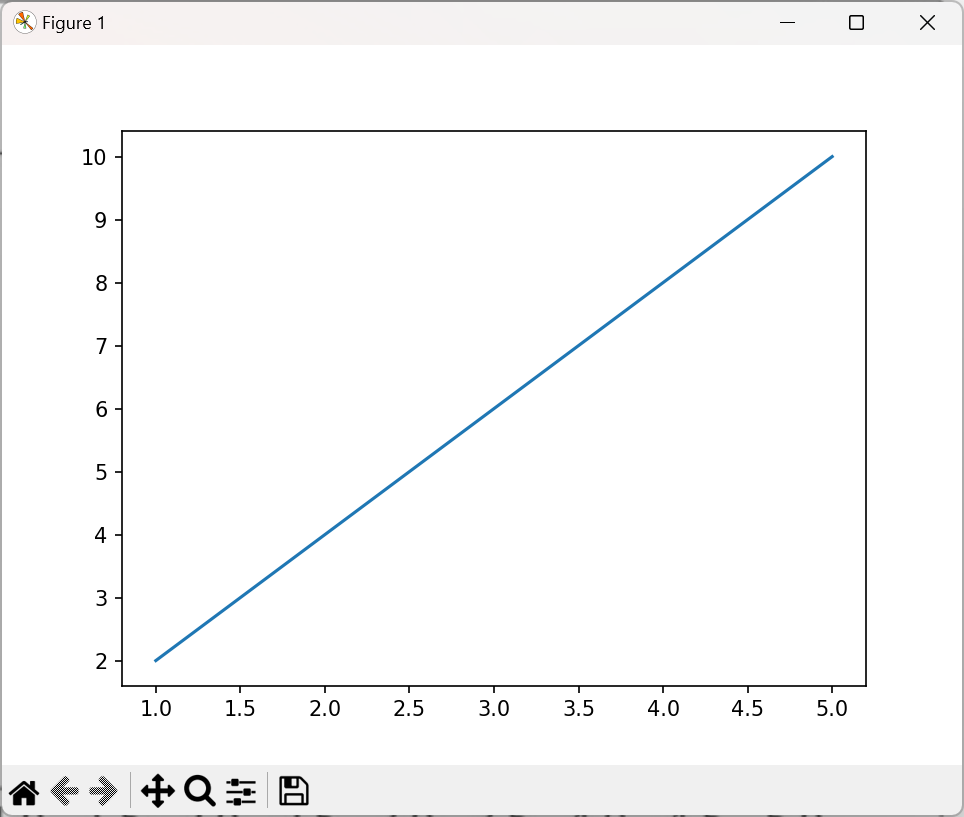
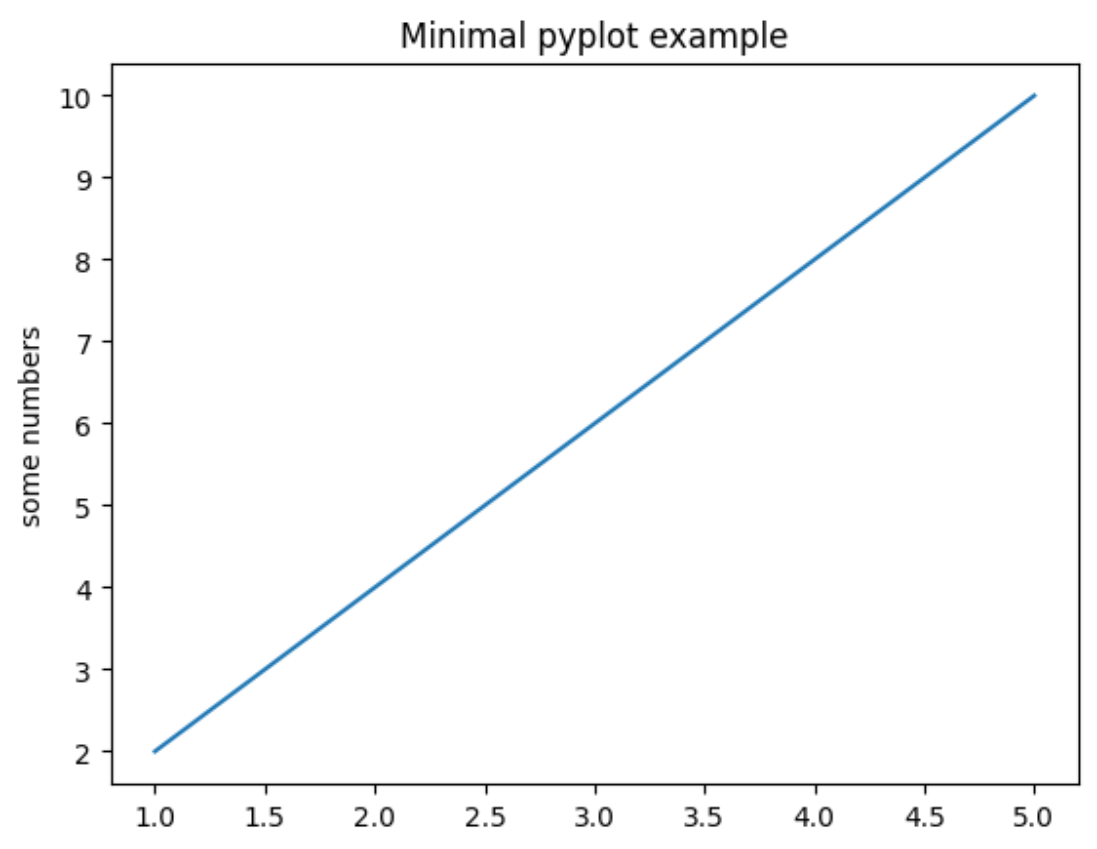
更新 matplotlib 笔记

diff --git a/Notes-Python/matplotlib 库/matplotlib.md b/Notes-Python/matplotlib 库/matplotlib.md
@@ -10,12 +10,195 @@ import matplotlib.pyplot as plt
 
 将模块名简写为 plt，之后以 plt 为前缀 调用函数即可绘制图表。例如，plt.plot()函数用于绘制折线图，plt.bar() 函数用于绘制柱形图，plt.pie()函数用于绘制饼图，等等。
 
+官方 Github：https://github.com/matplotlib/matplotlib
+
+官方文档：https://matplotlib.org/stable/users/index
+
 ## 安装
 
 在命令提示符中输入
 
 ``` shell
 pip install matplotlib
+```
+
+## 导入包
+
+``` python
+# 在 Jupyter Notebook 中需要添加下面两句，且在 import matplotlib.pyplot 之前
+import matplotlib
+%matplotlib ipympl
+import matplotlib.pyplot as plt
+```
+
+可能会出现 `Matplotlib is currently using module://matplotlib_inline.backend_inline, which is a non-GUI backend, so cannot show the figure.` 的报错。
+
+出现这个报错是因为默认的后端配置不支持 jupyter 显示生成的图片。
+
+**什么是后端？**
+
+Matplotlib 针对许多不同的用例和输出格式。有些人在 python shell 中交互地使用 matplotlib，当他们输入命令时会弹出绘图窗口。有些人跑 Jupyter 笔记本和绘制内联绘图，以便快速进行数据分析。其他人将 matplotlib 嵌入到图形用户界面中，比如 wxpython 或 pygtk，以构建丰富的应用程序。有些人在批处理脚本中使用 matplotlib 从数值模拟中生成 PostScript 图像，还有一些人运行 Web 应用服务器来动态地提供图形。
+
+为了支持所有这些用例，matplotlib 可以针对不同的输出，这些功能中的每一个都称为后端；“前端”是面向用户的代码，即绘图代码，而“后端”则在幕后完成了所有繁重的工作来生成数字。有两种后端：用户界面后端（用于 pygtk、wxpython、tkinter、qt4 或 macosx；也称为“交互后端”）和硬拷贝后端以生成图像文件（png、svg、pdf、ps；也称为“非交互后端”）。
+
+有三种配置后端的方法：
+
+- 这个 `rcParams["backend"]` (default: `'agg'`) 您的 `matplotlibrc` 文件
+- 这个 MPLBACKEND 环境变量
+- 函数 matplotlib.use()
+
+如果存在多个配置，则列表中的最后一个配置优先；例如调用 matplotlib.use() 将覆盖您的 matplotlibrc.
+
+如果没有显式设置后端，Matplotlib 会根据系统上可用的内容以及 GUI 事件循环是否已在运行来自动检测可用的后端。在 Linux 上，如果环境变量 DISPLAY 如果未设置，“事件循环”将标识为 “headless”，这将导致回退到非交互后端（agg）。
+
+以下是配置方法的详细说明：
+
+1. 设置 `rcParams["backend"]` (default: `'agg'`) 在你 `matplotlibrc` 文件：
+
+   ```
+   backend : qt5agg   # use pyqt5 with antigrain (agg) rendering
+   ```
+
+   也见[使用样式表和 RCPARAM 自定义 Matplotlib](https://www.osgeo.cn/matplotlib/tutorials/introductory/customizing.html).
+
+2. 设置 [`MPLBACKEND`](https://www.osgeo.cn/matplotlib/faq/environment_variables_faq.html#envvar-MPLBACKEND) 环境变量：
+
+   可以为当前 shell 或单个脚本设置环境变量。
+
+   在 Unix 上：
+
+   ```shell
+   export MPLBACKEND=qt5agg
+   python simple_plot.py
+   
+   MPLBACKEND=qt5agg python simple_plot.py
+   ```
+
+   在 Windows 上，只有前者是可能的：
+
+   ```shell
+   set MPLBACKEND=qt5agg
+   python simple_plot.py
+   ```
+
+   设置此环境变量将重写 `backend` 参数在 *any* `matplotlibrc` ，即使有 `matplotlibrc` 在当前工作目录中。因此，设置 [`MPLBACKEND`](https://www.osgeo.cn/matplotlib/faq/environment_variables_faq.html#envvar-MPLBACKEND) 全局范围内，例如 `.bashrc` 或 `.profile` 不鼓励，因为这可能导致违反直觉的行为。
+
+3. 如果脚本依赖于特定的后端，则可以使用该函数 [matplotlib.use()`](https://www.osgeo.cn/matplotlib/api/matplotlib_configuration_api.html#matplotlib.use)：
+
+   ```python
+   import matplotlib
+   matplotlib.use('qt5agg')
+   ```
+
+   这应该在创建任何图形之前完成；否则Matplotlib可能无法切换后端并引发 ImportError。
+
+   使用 [`use`](https://www.osgeo.cn/matplotlib/api/matplotlib_configuration_api.html#matplotlib.use) 如果用户要使用不同的后端，则需要更改代码。因此，您应该避免显式地调用 [`use`](https://www.osgeo.cn/matplotlib/api/matplotlib_configuration_api.html#matplotlib.use) 除非绝对必要。
+
+jupyter 小部件生态系统移动太快，无法直接在 Matplotlib 中支持。<font color=skyblue>需要安装 IPYMPL。</font>
+
+``` python
+pip install ipympl
+jupyter nbextension enable --py --sys-prefix ipympl
+# anconda 使用下面这句
+conda install ipympl -c conda-forge
+```
+
+可能没有安装 nbextension 这个插件，由于 最新版本的 jupyter 不支持安装插件，所以需要先卸载当前 jupyter。
+
+``` shell
+pip uninstall notebook
+pip install notebook==6.4.12
+```
+
+安装 nbextension 和 nbextensions_configurator。
+
+nbextensions_configurator 扩展作为此存储库的依赖项安装，可用于启用和禁用各个 nbextensions 以及配置其选项。然后，您可以打开 `nbextensions` 树（仪表板/文件浏览器）笔记本页面上的选项卡来配置 nbextensions。您将可以访问仪表板，其中可以通过复选框启用/禁用扩展。此外，还会显示每个扩展的简短文档，并提供配置选项。
+
+nbextension 官方 github：https://github.com/ipython-contrib/jupyter_contrib_nbextensions/blob/master/README.md
+
+nbextensions_configurator 官方 github：https://github.com/Jupyter-contrib/jupyter_nbextensions_configurator
+
+``` shell
+pip install jupyter_contrib_nbextensions
+# 执行这条命令可能会报错，解决方案见下面
+jupyter contrib nbextension install --user
+pip install jupyter_nbextensions_configurator
+```
+
+如果出现 `TypeError: warn() missing 1 required keyword-only argument: 'stacklevel'` 报错，需要改变 traitlets 的版本。
+
+可以参考：https://github.com/microsoft/azuredatastudio/issues/24436
+
+```shell
+pip uninstall traitlets
+pip install traitlets==5.9.0
+```
+
+或者，尝试将 `$(Python)\Python38\site-packages\notebook\notebookapp.py` 文件 1411 行中的 `jupyter_server.contents.services.managers.ContentsManager` 改为 `jupyter_server.services.contents.manager.ContentsManager`。<font color=grass>此方法未尝试。</font>
+
+或者，尝试导入 jupyter_server。<font color=grass>此方法未尝试。</font>
+
+``` shell
+pip install jupyter_server
+```
+
+## 创建图片
+
+在 matplotlib 中有两个重要的对象，图像（Figure）和子图（Subplot，也称为 Axes）。图是所有图形元素的顶层容器，也是子图的容器。一幅图可以有许多个子图，每个子图属于某幅图，包含着许多元素。下列代码生成了一幅图像（不可见），具有一个空的子图：
+
+``` python
+import matplotlib.pyplot as plt
+fig, ax = plt.subplots()
+ax.plot()
+```
+
+输出：
+
+<img src="图片\具有一个空的子图的图像.png" style="zoom:50%;" />
+
+生成一幅包含 4 个空子图的图像
+
+``` python
+import matplotlib.pyplot as plt
+fig, ax = plt.subplots(ncols=2, nrows=2)
+plt.show()
+```
+
+![](图片\4个空子图的图像.png)
+
+Matplotlib 有两种使用接口，一种是 pyplot 和 面向对象的接口（Object Oriented Interface, OOI）。
+
+使用 pyplot：
+
+``` python
+import numpy as np
+titles = ['upper left', 'upper right', 'lower left', 'lower right']
+fig, axes = plt.subplots(ncols=2, nrows=2)
+for title, ax in zip(titles, axes.flatten()):
+    ax.set_title(title)
+    # np.arange 代表 x 轴的数据，np.random.randint(0, 10, 10) 代表 y 轴的数据
+    ax.plot(np.arange(10), np.random.randint(0, 10, 10))
+    ax.set_yticks([0, 5, 10])
+# 这会使子图之间有一个很好的空隙
+fig.tight_layout()
+```
+
+![](图片\4 个子图（pyplot）.png)
+
+使用面向对象：
+
+``` python
+import numpy as np
+fig, axes = plt.subplots(ncols=2, nrows=2)
+axes[0, 0].set_title('upper left')
+axes[0, 0].plot(np.arange(10), np.random.randint(0, 10, 10))
+axes[0, 1].set_title('upper right')
+axes[0, 1].plot(np.arange(10), np.random.randint(0, 10, 10))
+axes[1, 0].set_title('lower left')
+axes[1, 0].plot(np.arange(10), np.random.randint(0, 10, 10))
+axes[1, 1].set_title('lower right')
+axes[1, 1].plot(np.arange(10), np.random.randint(0, 10, 10))
+fig.tight_layout()
 ```
 
 ## 折线图
@@ -25,6 +208,8 @@ import matplotlib.pyplot as plt
 x = [1, 2, 3, 4, 5]
 y = [2, 4, 6, 8, 10]
 plt.plot(x, y)
+plt.title('Minimal pyplot example')
+plt.ylabel('some numbers')
 plt.show()
 ```
 
